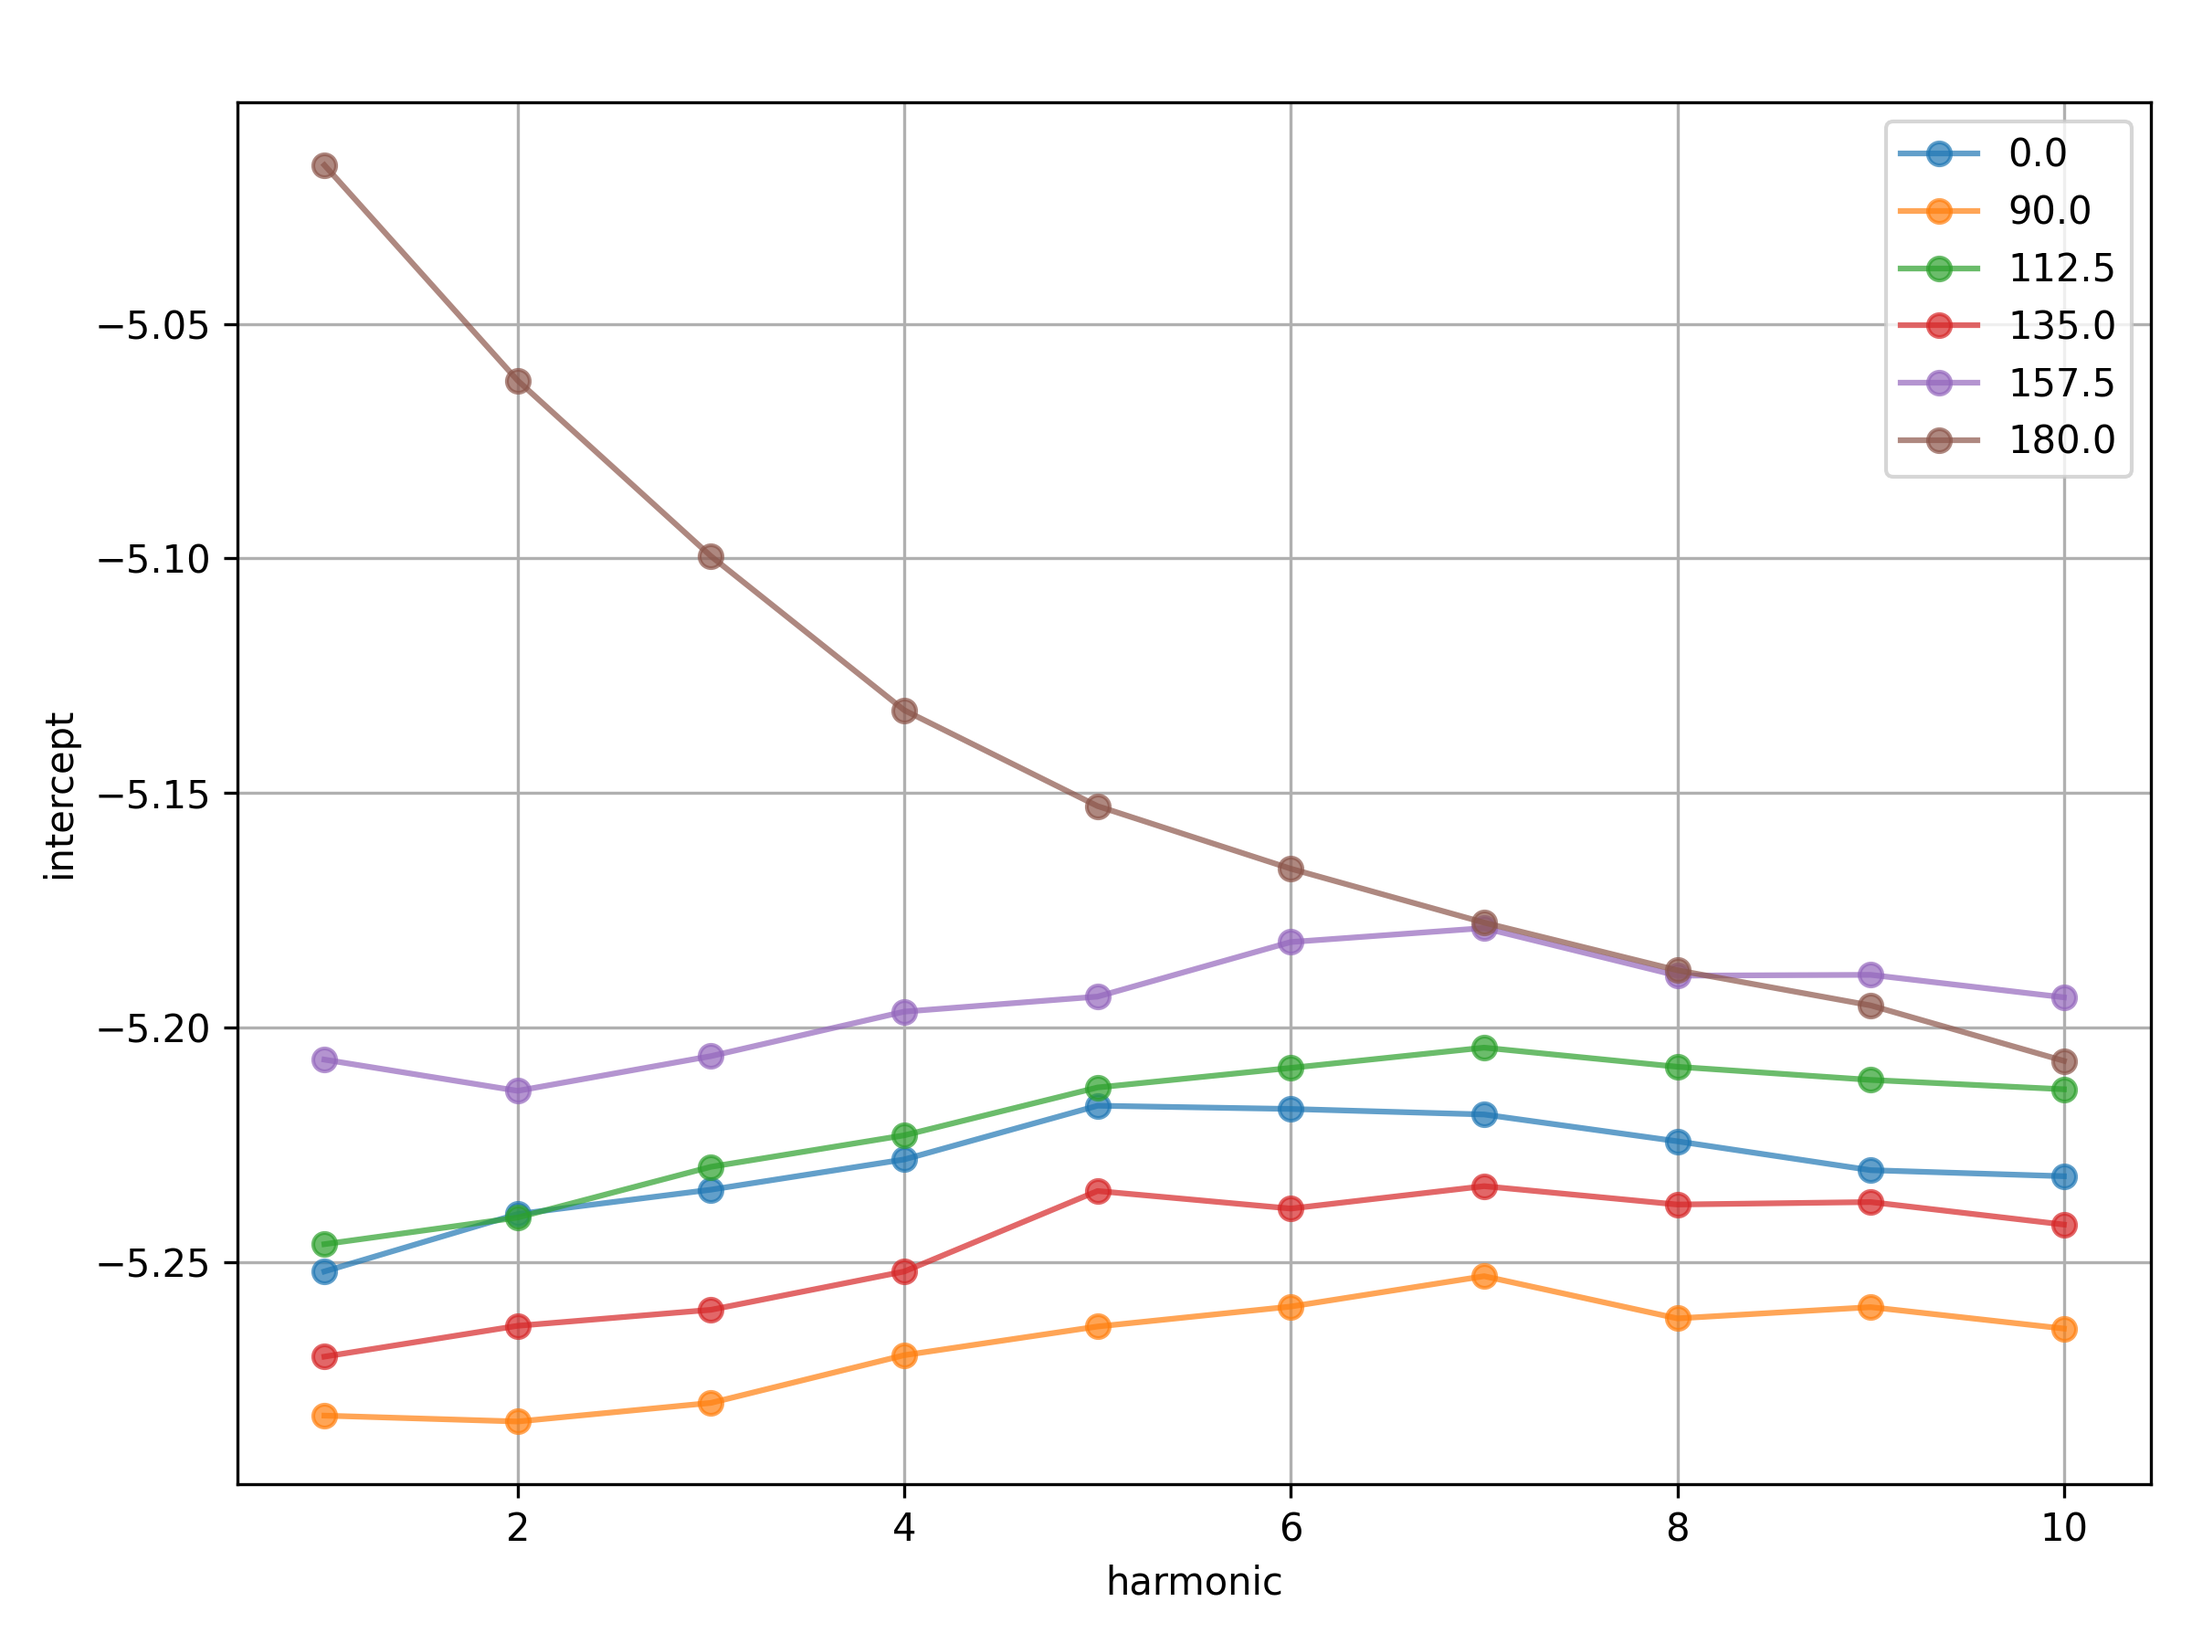
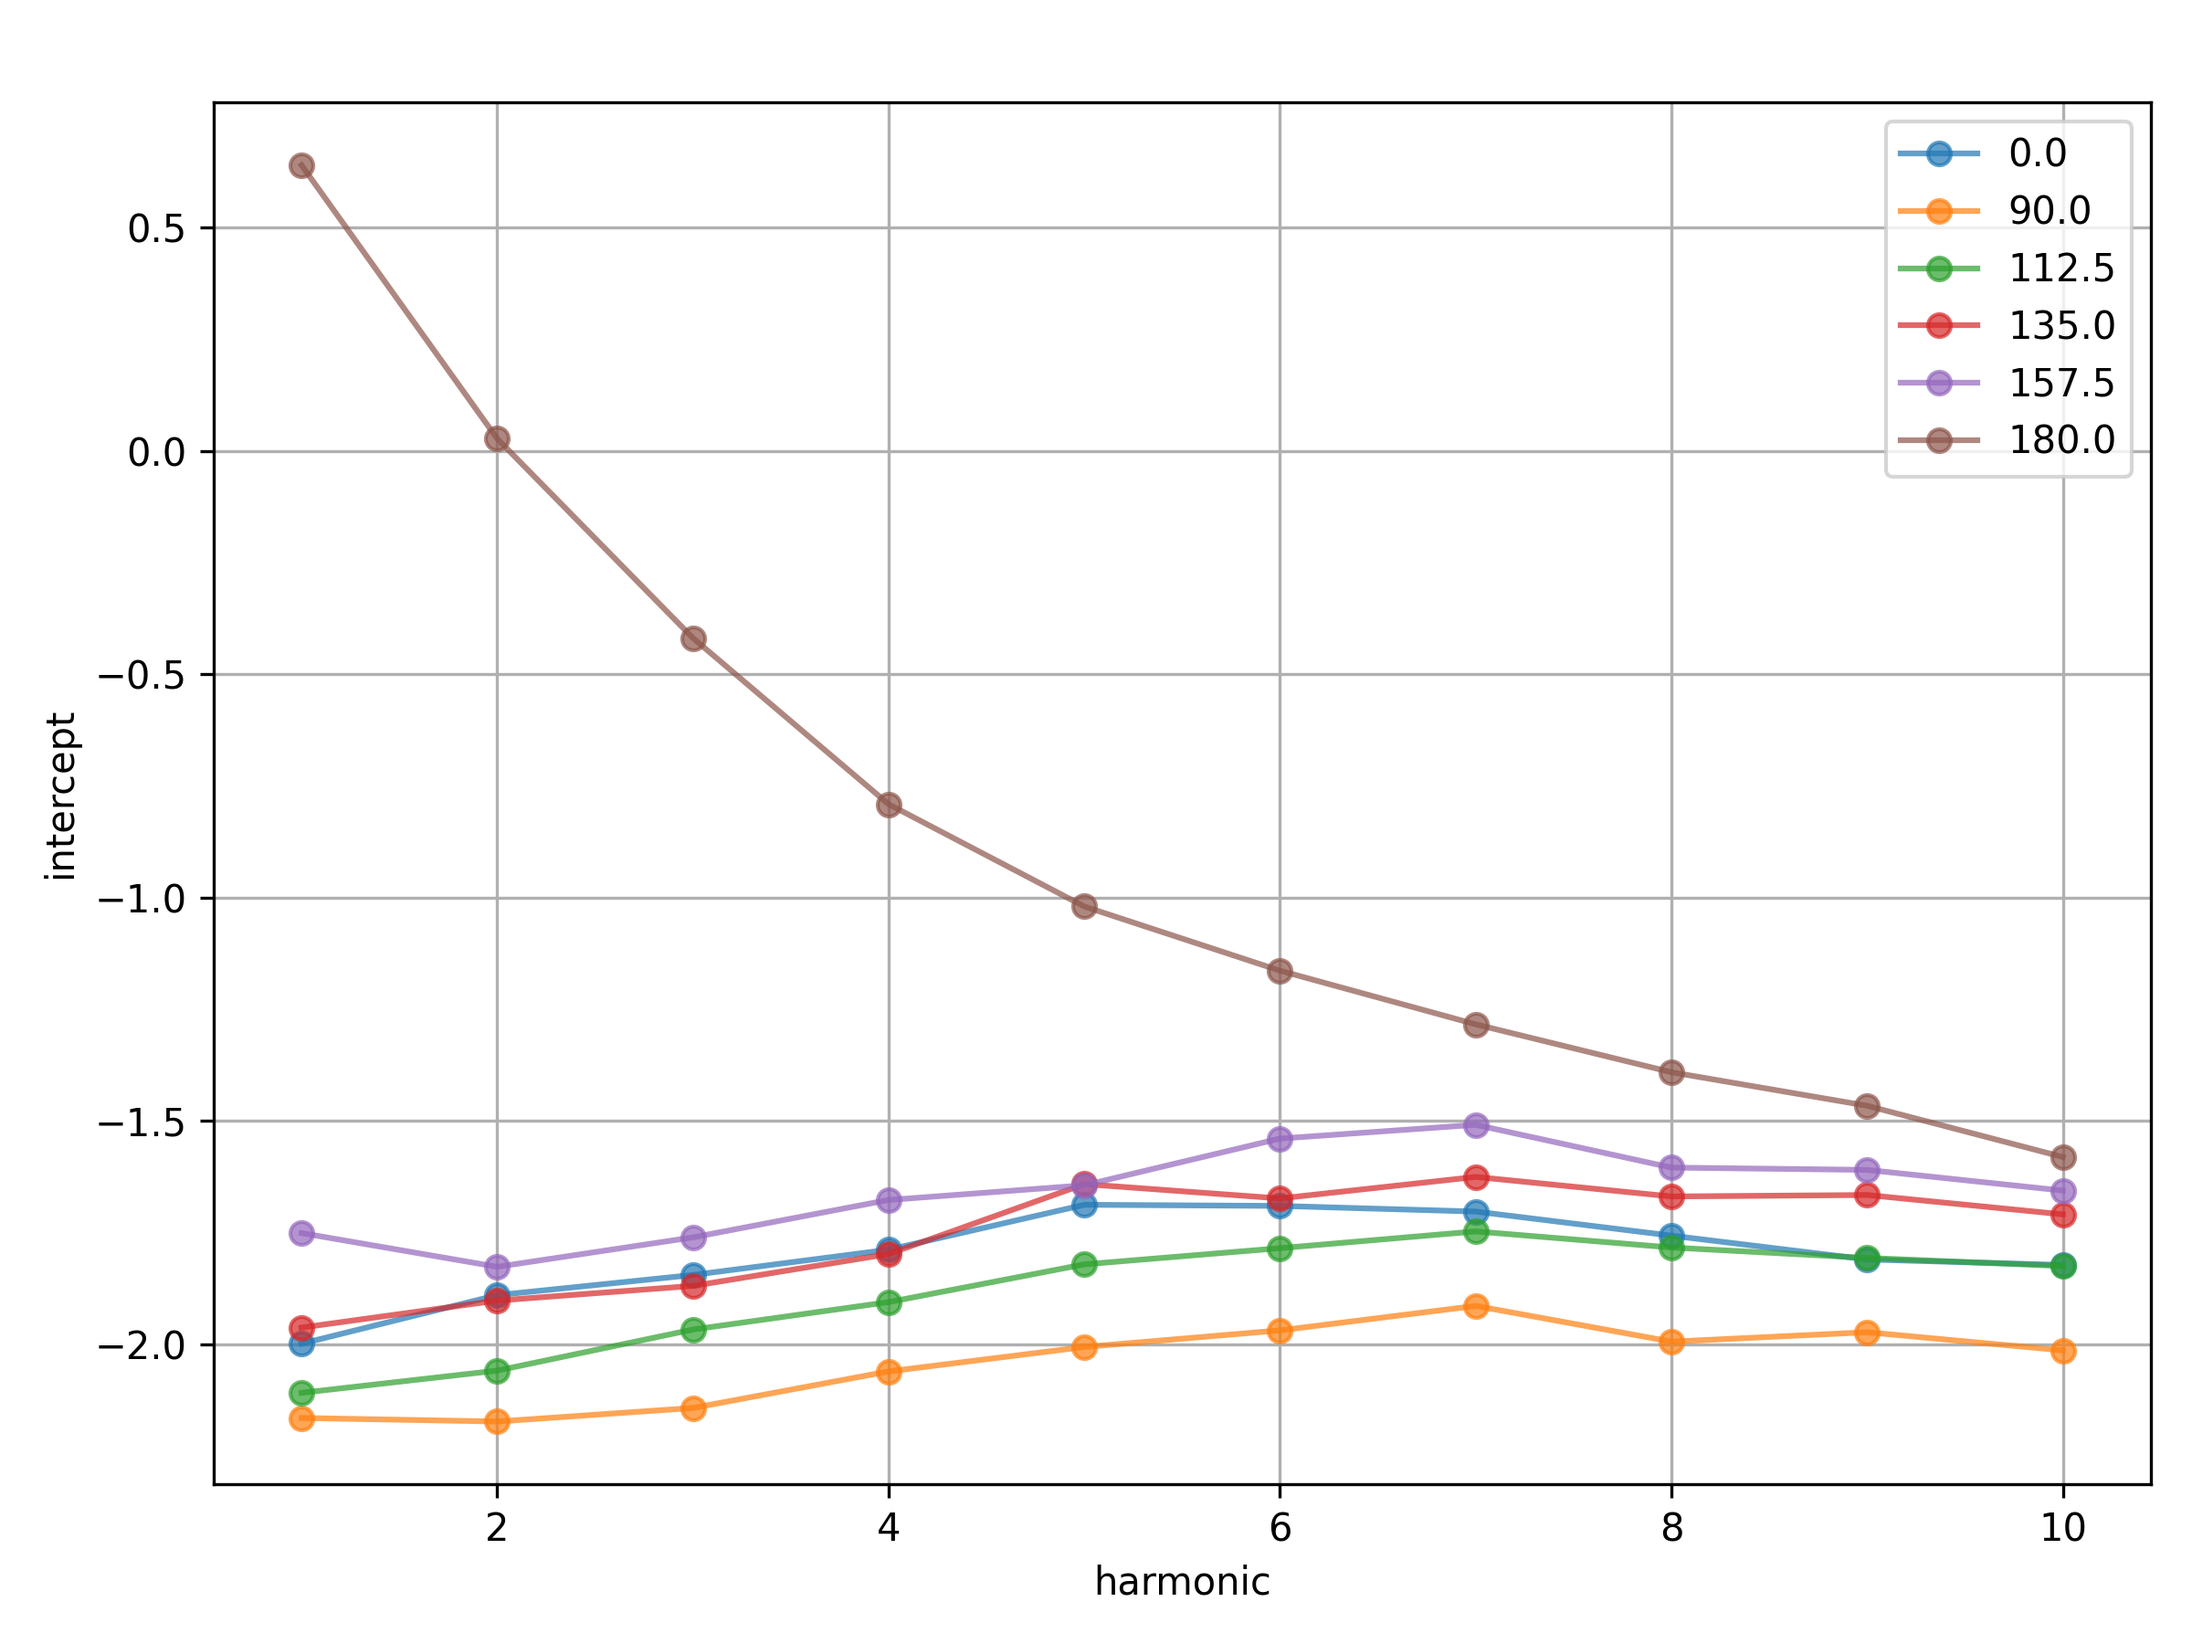
need to talk about the actual mic positioning and data analysis

diff --git a/app/results/aero_graphs.py b/app/results/aero_graphs.py
@@ -97,13 +97,22 @@ def plot_prop(
         xmax_q = np.max(speed_q + err_speed_q) * 1.1
         ax2.set_xlim(min(curr_min_q, xmin_q), max(curr_max_q, xmax_q))
 
+    ax2.grid(True, which="both")
+    ax2.set_xlabel("Speed [rad/s]")
+    ax2.set_ylabel("Torque Coefficient $C_Q$")
+
     # ok now fit curves to estimate the constant coefficients
     # thrust curve is constant enough to be averaged
 
     converged_thrust_coefficient = np.mean(CT)
     
     # fit torque curve
-    params_q = fit_cexp(np.log10(speed_q), CQ)
+    params_q = fit_cexp(np.log10(speed_q), CQ, [1000, 4, -1000])
+
+    if params_q is None:
+        print(f"Warning: Could not fit torque curve for prop {label}")
+        return ax1, ax2
+
     speed_cont_q = np.logspace(
         np.log10(np.min(speed_q)), np.log10(np.max(speed_q)), 1000
     )

diff --git a/app/routines_aero.py b/app/routines_aero.py
@@ -4,7 +4,7 @@ import matplotlib.pyplot as plt
 import numpy as np
 import os
 import sys
-from scipy.optimize import curve_fit
+from scipy.optimize import curve_fit, OptimizeWarning
 
 from app.routines import (
     load_prop_from_file,
@@ -24,10 +24,8 @@ def cexp(x, a, b, c):
     """Converging exponential function."""
     return a * (1 - np.exp(-b * x)) + c
 
-def fit_cexp(x, y):
+def fit_cexp(x, y, initial_guess = [1000, 5, -1000]):
     """Fits a converging exponential to the data."""
-
-    initial_guess = [1000, 5, -1000]
 
     # sort x and y to ensure they are in the same order
     sorted_indices = np.argsort(x)

diff --git a/app/results/residual_function_variation.py b/app/results/residual_function_variation.py
@@ -39,12 +39,11 @@ def fixed_speed_distance_regression(hdf):
         # Convert to SI
         omega = group['speed'].values * 2 * np.pi / 60   # rad/s
         r     = group['distance'].values * 1e-3          # m
-        spl   = group['SPL'].values / 20
 
         # Log10 values
         log_speed    = np.log10(omega)
         log_distance = np.log10(r)
-        log_spl      = np.log10(spl)
+        log_spl      = group['SPLref'].values / 20
 
         # Remove known physics trends:
         #   adjusted = log_spl − 2·log_speed + log_distance

diff --git a/deliverables/final_report/draft/draft.tex b/deliverables/final_report/draft/draft.tex
@@ -711,6 +711,8 @@ This could be used at low torque values which were unable to be read by
     \label{fig:microphone_calibration}
 \end{figure}
 
+Figure \ref{fig:microphone_calibration} shows the calibration for the GRAS 46BD microphones used in the acoustic setup.
+
 \subsection{Aerodynamic performance}
 
 \subsection{Acoustic performance}
